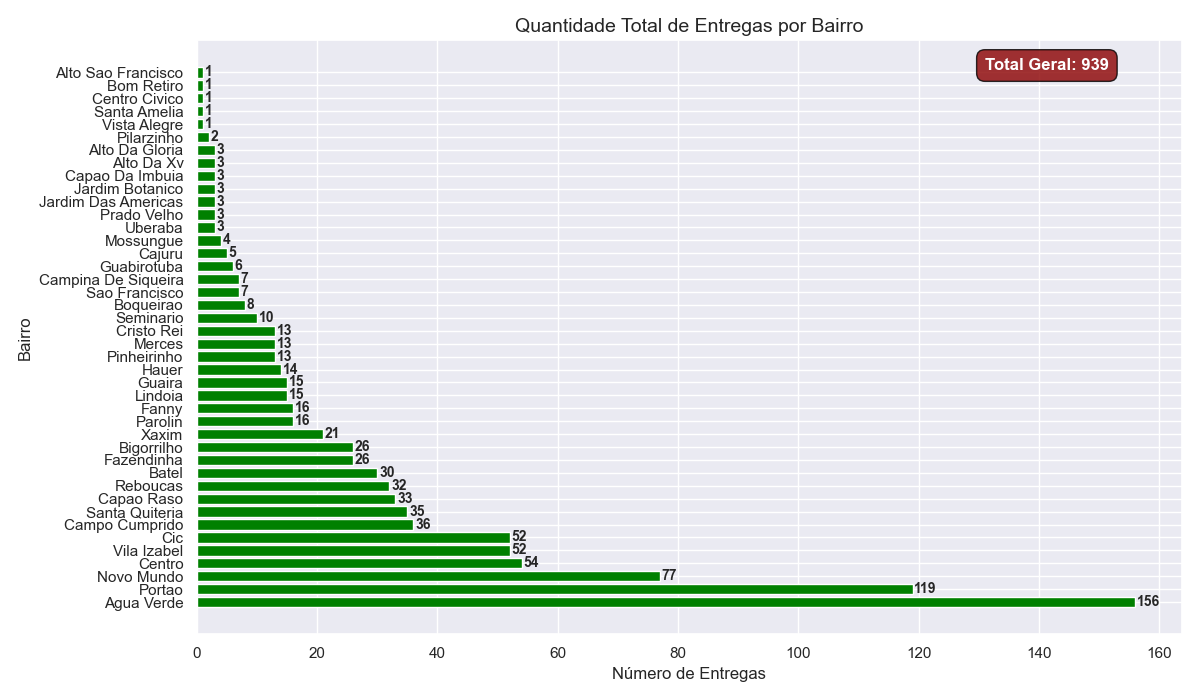
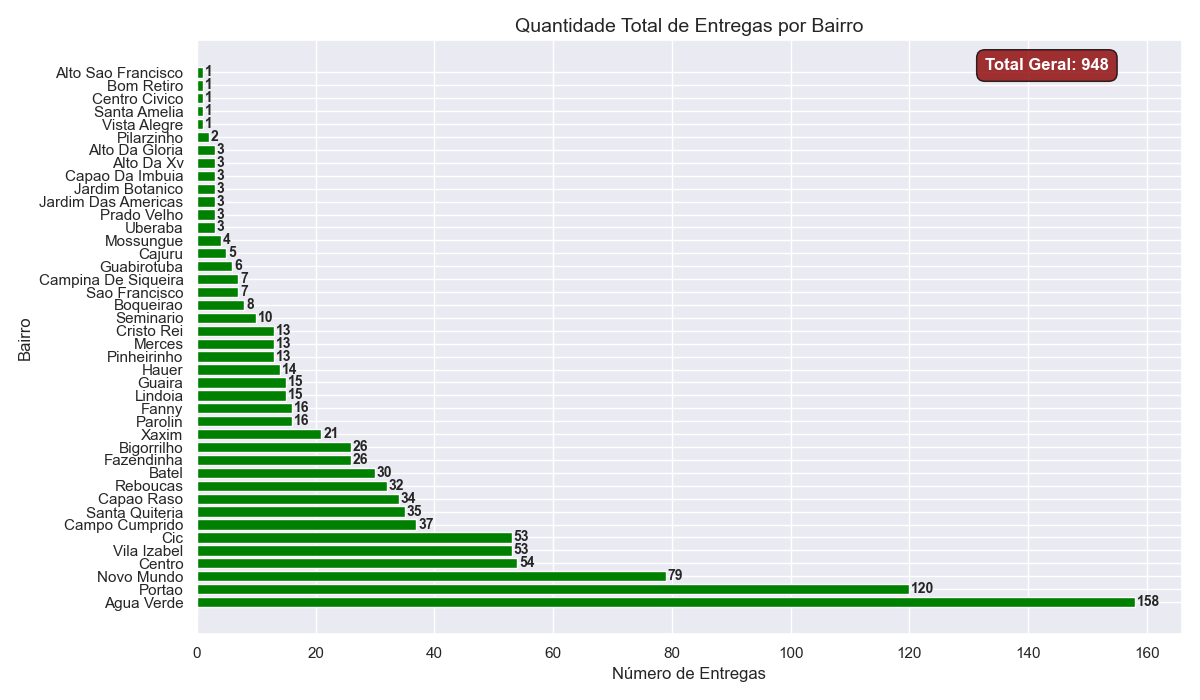
acicionando datas no relarotio de maio

diff --git a/analise_relatorio_logistica.py b/analise_relatorio_logistica.py
@@ -8,7 +8,7 @@ import seaborn as sns #biblioteca que deixa os graficos mais bonitos
 
 #usando try/except para caso de erro em alguma parte
 try:
-    df_maio = pd.read_excel('relatorio_maio.xlsx', sep=';')
+    df_maio = pd.read_csv('relatorio_maio.csv', sep=';')
     df_a = pd.read_csv('relatorio_abril.csv', sep=';')
     df_m= pd.read_csv('relatorio_marco.csv', sep=';')#lendo o arquivo csv e transformando em data frame
     
@@ -128,9 +128,10 @@ try: #funçao para validar se o codigo dentro desse parametro vai rodar sem dar 
 except Exception as e:
     
     print(f"Erro no gráfico de lucro por hora: {e}")
+
+
 with sqlite3.connect('logistica_pessoal.db') as conn:
 
-    
     df_consolidado.to_sql('entregas', conn, if_exists='replace', index=False)
     df_volume = pd.read_sql(query_volume_bairro, conn)
     df_top = pd.read_sql(query_top_dia, conn)#variavel que recebeu os dados da query do top do dia e a conexao com o banco de dados